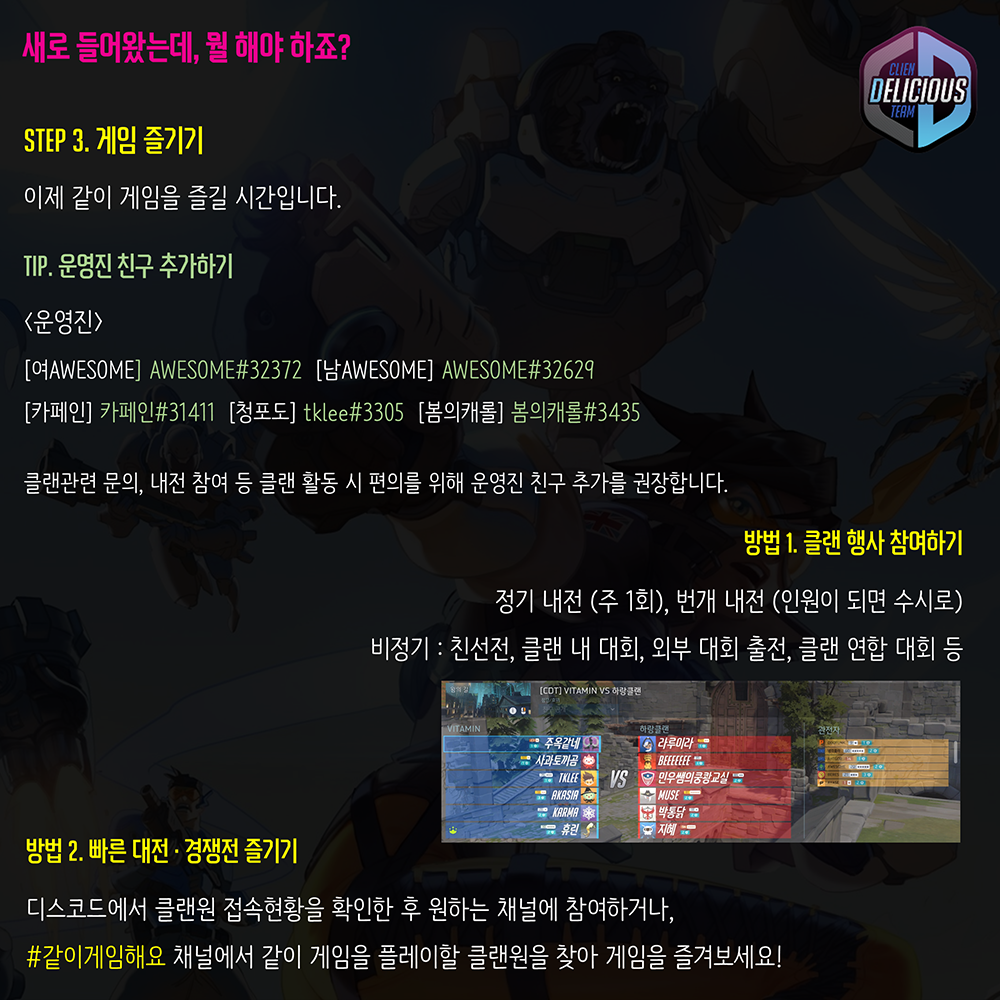
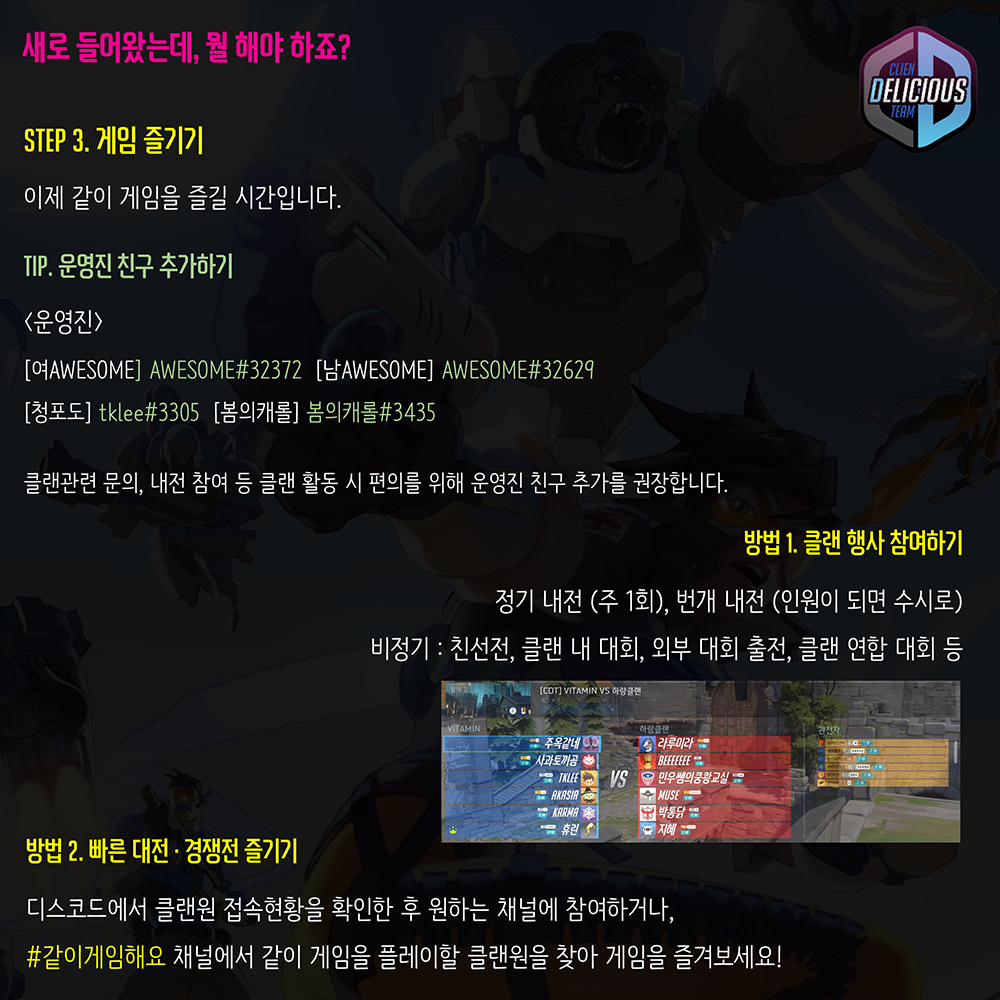
운영진 수정

Changed region(s): [[0.031, 0.403, 0.651, 0.434]]

diff --git a/Athena/System/CBotClient.cs b/Athena/System/CBotClient.cs
@@ -833,7 +833,6 @@ namespace Athena
                     strInfo += "건의사항, 문의사항이 있으실 때는\n";
                     strInfo += "(남)AWESOME(@leek603),\n";
                     strInfo += "(여)AWESOME(@AWESOMEYUU),\n";
-                    strInfo += "카페인(@sunho29),\n";
                     strInfo += "청포도(@leetk321),\n";
                     strInfo += "봄의캐롤(@rsmini) 에게\n";
                     strInfo += "문의해주세요.\n\n";
